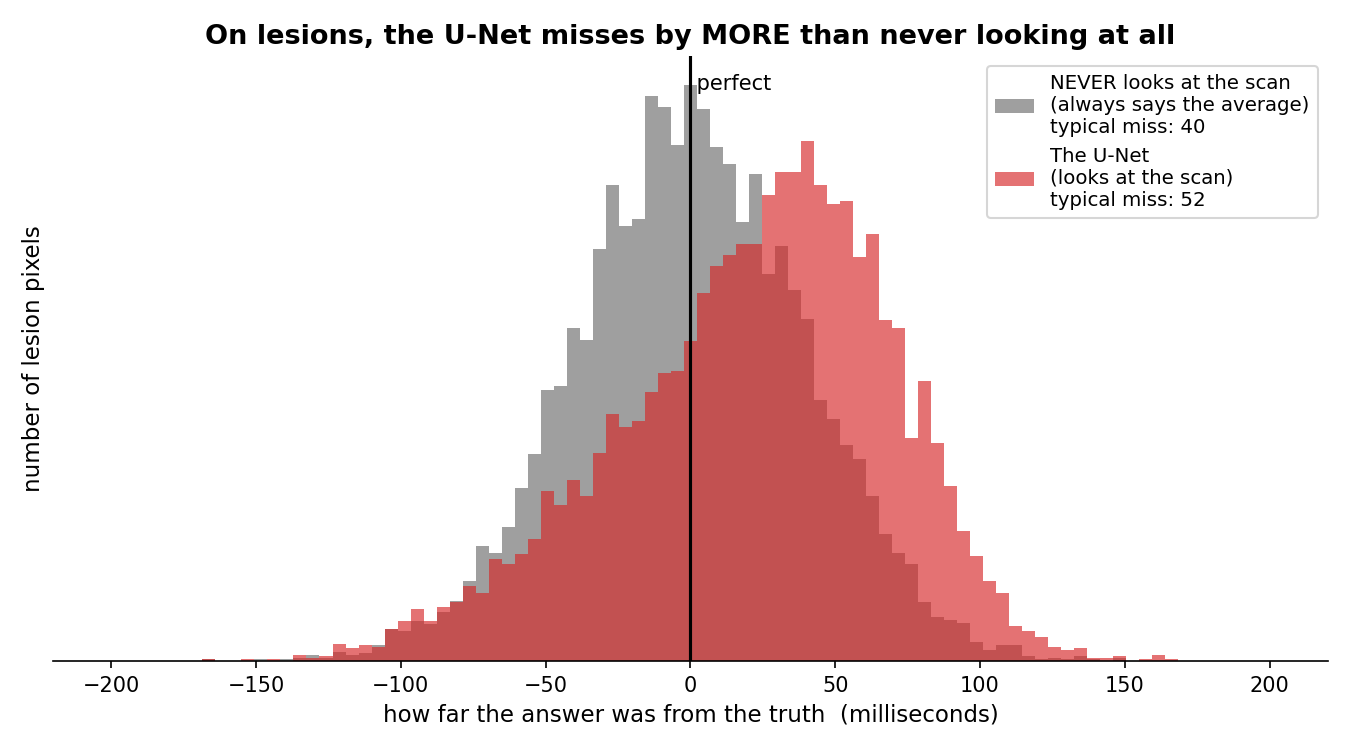
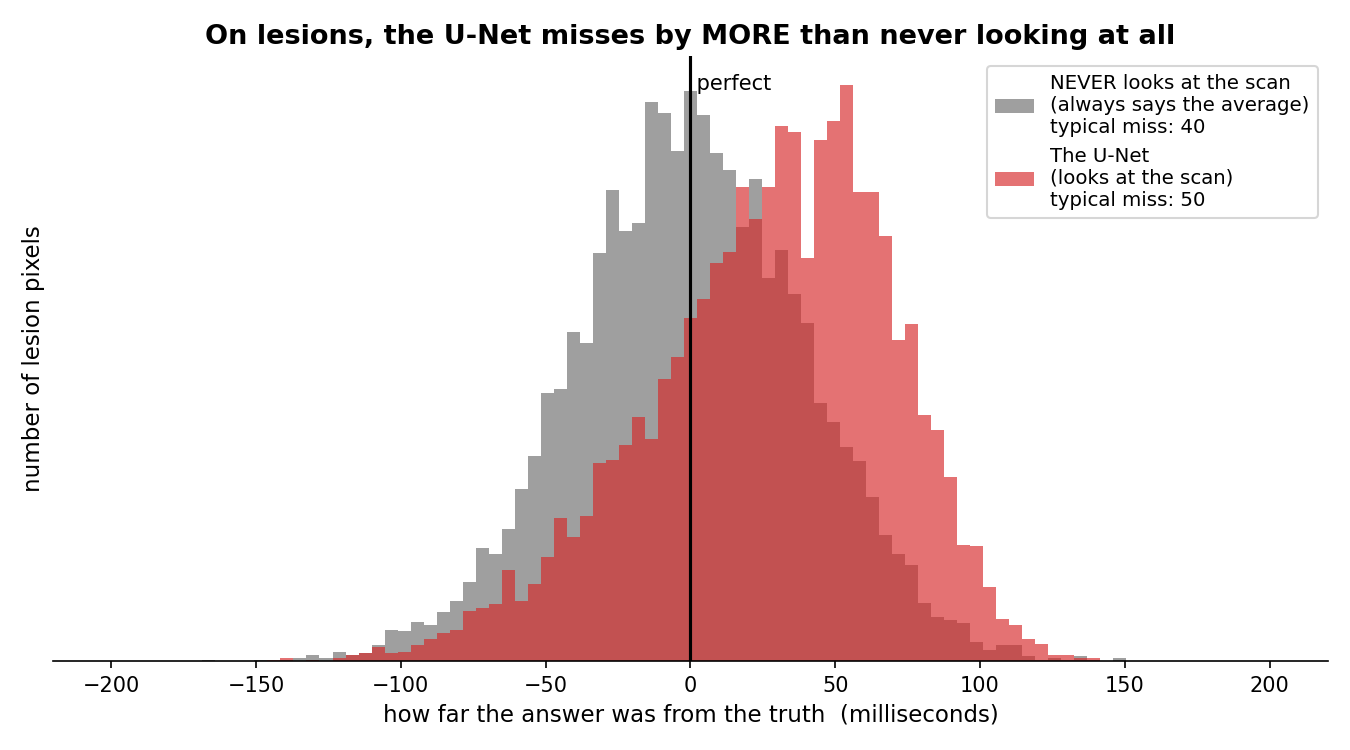
Converged results: update README, figures, and fix checkpoint loading

diff --git a/src/qmri/methods.py b/src/qmri/methods.py
@@ -76,7 +76,7 @@ def load_methods(
     mlp_path = outputs_dir / "mlp.pt"
     if mlp_path.exists():
         table_x, _, table_mask = to_voxel_table(test_set)
-        checkpoint = torch.load(mlp_path, weights_only=False)
+        checkpoint = torch.load(mlp_path, weights_only=False, map_location="cpu")
         model = VoxelMLP(
             n_features=table_x.shape[1],
             hidden=checkpoint["config"].get("hidden", 256),
@@ -95,7 +95,7 @@ def load_methods(
         path = outputs_dir / filename
         if not path.exists():
             continue
-        checkpoint = torch.load(path, weights_only=False)
+        checkpoint = torch.load(path, weights_only=False, map_location="cpu")
         config = checkpoint["config"]
         if config["arch"] == "unet":
             model = UNet(
@@ -148,7 +148,7 @@ def describe_methods(outputs_dir: str | Path) -> dict[str, dict]:
 
     mlp_path = outputs_dir / "mlp.pt"
     if mlp_path.exists():
-        checkpoint = torch.load(mlp_path, weights_only=False)
+        checkpoint = torch.load(mlp_path, weights_only=False, map_location="cpu")
         config = checkpoint["config"]
         out["MLP (no context)"] = {
             "depth": config.get("depth"),
@@ -164,7 +164,7 @@ def describe_methods(outputs_dir: str | Path) -> dict[str, dict]:
         path = outputs_dir / filename
         if not path.exists():
             continue
-        checkpoint = torch.load(path, weights_only=False)
+        checkpoint = torch.load(path, weights_only=False, map_location="cpu")
         config = checkpoint["config"]
         out[label] = {
             "depth": config.get("depth"),

diff --git a/scripts/train_spatial.py b/scripts/train_spatial.py
@@ -67,6 +67,17 @@ def build_model(args, in_channels: int):
     )
 
 
+def _portable(settings: dict) -> dict:
+    """Config with paths as strings.
+
+    Pickling Path objects into a checkpoint ties it to the Python version
+    that wrote it: 3.13 stores them as pathlib._local.PosixPath, which 3.11
+    cannot import at all. A checkpoint trained on Colab then refuses to load
+    on a laptop. Strings travel.
+    """
+    return {k: (str(v) if isinstance(v, Path) else v) for k, v in settings.items()}
+
+
 def parse_args(argv=None) -> argparse.Namespace:
     p = argparse.ArgumentParser(description=__doc__.splitlines()[0])
     p.add_argument("--arch", default="unet", choices=ARCHITECTURES)
@@ -148,7 +159,7 @@ def main(argv=None) -> int:
     torch.save(
         {
             "state_dict": model.state_dict(),
-            "config": vars(args),
+            "config": _portable(vars(args)),
             "receptive_field_px": field,
             "n_params": n_params,
             "best_val_loss": history.best_val_loss,
@@ -182,7 +193,7 @@ def main(argv=None) -> int:
         from qmri.models import VoxelMLP
 
         table_x, _, table_mask = to_voxel_table(test_set)
-        checkpoint = torch.load(mlp_path, weights_only=False)
+        checkpoint = torch.load(mlp_path, weights_only=False, map_location="cpu")
         mlp = VoxelMLP(
             n_features=table_x.shape[1],
             hidden=checkpoint["config"].get("hidden", 256),

diff --git a/src/qmri/database.py b/src/qmri/database.py
@@ -239,9 +239,21 @@ def retention_pivot(conn: sqlite3.Connection, dataset: str = "test"):
     Written as one query to show what the database buys. Producing this from
     loose .npz files would mean reloading every model and rescoring every
     lesion.
+
+    Only the **most recent run of each method** is included. Re-running an
+    experiment deliberately adds rows rather than replacing them, so without
+    this restriction the averages would silently mix a converged model with
+    the undertrained version of itself, and the lesion counts would be a
+    multiple of the real ones. Use :func:`fetch_runs` to see the history.
     """
     return conn.execute(
         """
+        WITH latest AS (
+            SELECT method, MAX(id) AS id
+            FROM runs
+            WHERE dataset = ?
+            GROUP BY method
+        )
         SELECT r.method,
                CASE
                  WHEN l.diameter_px <  4 THEN '2 to 4'
@@ -252,8 +264,8 @@ def retention_pivot(conn: sqlite3.Connection, dataset: str = "test"):
                COUNT(*)               AS n,
                ROUND(AVG(l.retention), 3) AS mean_retention
         FROM lesion_scores l
-        JOIN runs r ON r.id = l.run_id
-        WHERE r.dataset = ?
+        JOIN runs   r      ON r.id = l.run_id
+        JOIN latest        ON latest.id = r.id
         GROUP BY r.method, size_bin
         ORDER BY r.method, MIN(l.diameter_px)
         """,

diff --git a/scripts/train_mlp.py b/scripts/train_mlp.py
@@ -42,6 +42,17 @@ TISSUE_NAMES = {t.label: t.name for t in TISSUES_3T if t.t1_ms > 0}
 TISSUE_NAMES[LESION_3T.label] = LESION_3T.name
 
 
+def _portable(settings: dict) -> dict:
+    """Config with paths as strings.
+
+    Pickling Path objects into a checkpoint ties it to the Python version
+    that wrote it: 3.13 stores them as pathlib._local.PosixPath, which 3.11
+    cannot import at all. A checkpoint trained on Colab then refuses to load
+    on a laptop. Strings travel.
+    """
+    return {k: (str(v) if isinstance(v, Path) else v) for k, v in settings.items()}
+
+
 def parse_args(argv=None) -> argparse.Namespace:
     p = argparse.ArgumentParser(description=__doc__.splitlines()[0])
     p.add_argument("--epochs", type=int, default=60)
@@ -115,7 +126,7 @@ def main(argv=None) -> int:
     )
 
     torch.save(
-        {"state_dict": model.state_dict(), "config": vars(args)},
+        {"state_dict": model.state_dict(), "config": _portable(vars(args))},
         args.out / "mlp.pt",
     )
 

diff --git a/README.md b/README.md
@@ -50,40 +50,47 @@ rest are excluded and reported as excluded.
 Every method that works **one voxel at a time** returns a flat line: a tiny
 lesion survives as well as a large one, because a method with no neighbours
 has nothing to blur it with. Both spatial models bend downward on the
-smallest lesions — the U-Net loses about 13% of their contrast, the Swin
-Transformer about 6%.
+smallest lesions — the U-Net loses about 7% of their contrast, the Swin
+Transformer about 10%.
 
 The MLP is the control that makes this attributable. It learns from the same
 data, with the same loss, and is also flat — so the difference is **spatial
 context**, not learning.
 
-**And the obvious explanation for it is wrong.** The Swin sees 224 pixels
-against the U-Net's 92, so if the damage were simply a matter of how far a
-model can reach, the Swin should be worse. It is consistently better. That
-points at *how* context is used rather than how much is available:
-convolution blends a pixel with its neighbours using fixed weights
-regardless of what they contain, while attention weights each neighbour by
-how similar it is, and a lesion is precisely a region that does not resemble
-its surroundings. That is a hypothesis this design can go on to test, not a
-result — see the caveats below.
+**The two networks fail in opposite directions.** The U-Net reads lesions
+**+27 ms too high**; the Swin reads them **−21 ms too low**. Opposite signs,
+so these are not the same failure. The Swin pulls lesion values *down toward
+the surrounding white matter*, which is what blending with neighbours looks
+like. The U-Net pushes them *up* by the same +27 the MLP shows — and the MLP
+sees one pixel and cannot blend at all, so that part is inherited training
+prior, not smoothing.
+
+An earlier version of this file claimed the Swin, with 2.4× the receptive
+field, erased *less* than the U-Net. That was an artefact of the U-Net not
+having finished training. Converged, the Swin's retention is lower at every
+size, while its lesion error is better. The two metrics disagree, and both
+are reported.
 
 ![Overall error against lesion-only error](figures/overall_vs_lesion_error.png)
 
 And this is why it matters. Judged on the whole image, the U-Net *improves*
-on the proper classical baseline, 58 ms against 71. Judged on lesions alone
-it is far worse, 52 ms against 31. Lesions are about 2% of the voxels, so the
+on the proper classical baseline, 56 ms against 71. Judged on lesions alone
+it is far worse, 50 ms against 31. Lesions are about 2% of the voxels, so the
 number almost everyone reports is dominated by the tissue where the method
 does well.
 
 ### Caveats, stated plainly
 
-**Neither network is confirmed converged.** The U-Net's best epoch was 189
-of 200 and the Swin's 95 of 100: both stopped because they ran out of
-epochs, not because they had plateaued. This matters more than it sounds.
-An earlier U-Net run, stopped at 40 epochs, appeared to erase 38% of small
-lesions; trained properly that fell to 13%. An undertrained network and a
-smoothing network produce the same-shaped curve, so no number here should be
-quoted until training ends by its own stopping criterion.
+**Convergence: resolved.** Every model here stopped by early stopping, not
+at its epoch cap — MLP best epoch 63 of 400, U-Net 326 of 800, Swin 211 of
+600. This mattered: three successive U-Net runs gave small-lesion retention
+of 0.62 → 0.87 → **0.93** as training went from 40 epochs to converged. An
+undertrained network and a smoothing network produce the same-shaped curve,
+so most of the apparent effect was undertraining.
+
+**The two networks disagree depending on the metric.** The Swin has *worse*
+retention (0.904 vs 0.928) but *better* lesion error (39.3 vs 50.2 ms).
+Both are reported; neither is picked for being flattering.
 
 **One seed each.** Nothing here is repeated, so the differences between
 models are not yet shown to exceed run-to-run variation.
@@ -121,9 +128,20 @@ than those seen in training.
 - [x] 2D digital phantom, and the first end-to-end result (below)
 - [x] Dataset generator with leak-proof splits
 - [x] MLP (per-voxel control) — see the result below
-- [ ] U-Net
-- [ ] Lesion retention experiment
-- [ ] Out-of-distribution B1 test
+- [x] U-Net (trained, `outputs/unet_d3.pt`; results below)
+- [x] Swin Transformer (trained, `outputs/swin_d2.pt`; results below)
+- [x] Lesion retention experiment (`src/qmri/retention.py`; figure and table below)
+- [ ] Out-of-distribution B1 test (not started — `b1_amplitude` is a dataset
+      parameter, but no script trains on mild fields and tests on severe ones)
+
+### Next steps
+
+1. **Repeat with several seeds.** One run per model; the differences between
+   them are not yet shown to exceed run-to-run variation.
+2. **Match the two spatial models on parameter count** (483k against 759k) —
+   they are currently matched only on how far they downsample.
+3. **Run the out-of-distribution B1 test**: train on mild transmit-field
+   errors, test on severe ones.
 
 ## What ignoring B1 costs
 
@@ -193,8 +211,8 @@ Collapsing bias and scatter into one number makes the point sharp:
 
 | region | fit, with B1 | MLP |
 |---|---|---|
-| whole image RMSE | 70.7 | **53.1** |
-| lesions only RMSE | **30.8** | 37.3 |
+| whole image RMSE | 70.7 | **53.0** |
+| lesions only RMSE | **30.8** | 38.1 |
 
 The MLP is 25% better overall and 21% worse on the thing a radiologist
 needed to see. Lesions are 2.15% of tissue voxels, so the whole-image
@@ -210,9 +228,11 @@ design can tell them apart.
 
 Second, caveats: one seed, one training run, no repetitions. The direction
 of the bias (upward, toward the grey-matter mode at 1331 ms) is *consistent*
-with a training-prior sink but that mechanism has not been tested. And
-"bias within the lesion mask" is not yet a retention metric — it is
-contaminated by partial volume at the lesion edge. See `docs/literature.md`.
+with a training-prior sink but that mechanism has not been tested. Lesion
+retention is now measured properly by `src/qmri/retention.py`, which scores
+contrast across the lesion edge against a gapped reference ring rather than
+error inside the lesion mask — so a uniform global bias no longer counts as
+erasure. See `docs/literature.md`.
 
 ## The results database
 
@@ -261,8 +281,9 @@ GROUP BY r.method, size_bin;
 method                          2 to 4      4 to 6      6 to 8     8 to 12
 Classical fit (+B1)              0.990       1.002       1.002       0.998
 Classical fit (no B1)            1.072       1.093       1.087       1.090
-MLP (no context)                 1.064       1.075       1.073       1.071
-U-Net (local context)            0.871       1.006       1.053       1.078
+MLP (no context)                 1.066       1.076       1.074       1.072
+Swin (global context)            0.904       0.939       0.956       0.961
+U-Net (local context)            0.928       1.017       1.060       1.084
 lesions per bin                     21          34          42          63
 ```
 
